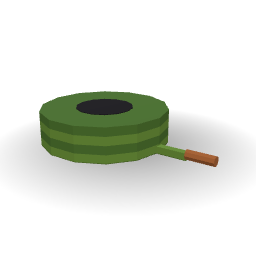
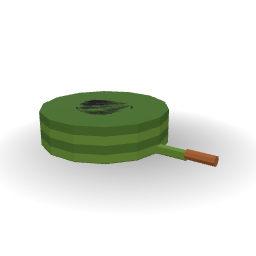
Hand tools batch 2: fix first review findings (wheel and foot contact, sprinkler fitting, docs and counts)

diff --git a/art/scripts/tools_more.py b/art/scripts/tools_more.py
@@ -4,8 +4,9 @@ extension cord reel and hand truck. Flat faceted models.
 Run in Blender:  import runpy; runpy.run_path(r"<repo>/art/scripts/tools_more.py", run_name="__main__")
 Optional global TOOL_LIST (piece names). Exports Assets/Art/Global/Tools/GT_<Name>_01.fbx.
 
-Origin on the floor at the middle of the footprint. Small hand tools (shears, poker) lie on the floor along X, working end at +X; the rest stand as they are used.
-Front -Y. Sizes and details are in docs/assets/briefs/hand-tools-2.md.
+Origin on the floor at the middle of the footprint. Small hand tools (shears, poker) lie on the floor along X, working end at +X; the rest stand as they are used (the hand truck's toe plate and the
+sprinkler's bar face +X, the working side).
+Front -Y for the rest. Sizes and details are in docs/assets/briefs/hand-tools-2.md.
 """
 
 import importlib
@@ -44,7 +45,7 @@ def piece(name):
 
 @piece("Plunger")
 def plunger():
-    """A sink plunger 0.5 m tall: black rubber cup 0.15 m across, wooden handle, a small knob on top."""
+    """A sink plunger 0.55 m tall: black rubber cup 0.15 m across, wooden handle, a small knob on top."""
     p = Prop("GT_Plunger_01")
     p.cyl("rubber", (0, 0, 0.04), 0.075, 0.08, n=10, top_radius=0.03)                # the cup, wide end on the floor
     p.cyl("wood_light", (0, 0, 0.3), 0.013, 0.46, n=8)                               # handle, from inside the cup up
@@ -54,13 +55,13 @@ def plunger():
 
 @piece("RopeCoil")
 def rope_coil():
-    """A coil of 12 mm rope, 0.3 m across and 0.09 m high: three layers around an open middle, one end laid out along the floor."""
+    """A coil of thick (about 25 mm) rope, 0.3 m across and 0.09 m high: three layers around an open middle, one end laid out along the floor."""
     p = Prop("GT_RopeCoil_01")
     p.ox = -0.06
     p.cyl("tan", (0, 0, 0.015), 0.15, 0.03, n=12)
     p.cyl("hay", (0, 0, 0.045), 0.15, 0.03, n=12)
     p.cyl("tan", (0, 0, 0.075), 0.15, 0.03, n=12)
-    p.cyl("dark_brown", (0, 0, 0.046), 0.07, 0.092, n=12)                            # the open middle, a dark core a little taller than the coil
+    p.cyl("dark_brown", (0, 0, 0.045), 0.07, 0.09, n=12)                             # the open middle, a dark core as tall as the coil
     p.box("tan", (0.2, 0.0, 0.01), (0.14, 0.02, 0.02))                               # the free end, along the floor from the coil's side
     return p
 
@@ -72,7 +73,7 @@ def sawhorse():
     p.box("wood_light", (0, 0, 0.555), (0.8, 0.09, 0.09))                           # top beam
     for sx in (-1, 1):
         for sy in (-1, 1):
-            rod(p, "wood_dark", (sx * 0.32, sy * 0.03, 0.52), (sx * 0.34, sy * 0.19, 0.01), w=0.045, h=0.045)
+            rod(p, "wood_dark", (sx * 0.32, sy * 0.03, 0.52), (sx * 0.34, sy * 0.19, 0.0078), w=0.045, h=0.045)
     for sx in (-1, 1):
         p.box("wood_dark", (sx * 0.33, 0, 0.3), (0.03, 0.2, 0.04))                  # a brace across each pair of legs
     return p
@@ -80,12 +81,12 @@ def sawhorse():
 
 @piece("PaintCan")
 def paint_can():
-    """A one gallon paint can (0.16 m across, 0.17 m high): label, rim, lid, wire bail and a drip of yellow paint down the side."""
+    """A one gallon paint can (0.16 m across, 0.17 m high): label, rim, wire bail, paint at the open top and a drip of yellow paint down the side."""
     p = Prop("GT_PaintCan_01")
     p.cyl("metal_galv", (0, 0, 0.085), 0.08, 0.17, n=12)
     p.cyl("label_red", (0, 0, 0.09), 0.0808, 0.07, n=12)                            # the paper label, just proud of the can
     p.cyl("metal_galv", (0, 0, 0.172), 0.084, 0.012, n=12)                          # the rim
-    p.cyl("paint_yellow", (0, 0, 0.176), 0.07, 0.006, n=12)                         # paint at the top where the lid is off
+    p.cyl("paint_yellow", (0, 0, 0.174), 0.07, 0.006, n=12)                         # paint at the top where the lid is off
     p.box("paint_yellow", (0.0, -0.0815, 0.15), (0.03, 0.006, 0.05))                 # a drip on the front
     rod(p, "metal_dark", (-0.08, 0, 0.17), (0.0, 0, 0.23), w=0.006)                  # the wire bail
     rod(p, "metal_dark", (0.0, 0, 0.23), (0.08, 0, 0.17), w=0.006)
@@ -127,7 +128,7 @@ def hose_coil():
     p.ox = -0.1
     for k in range(4):
         p.cyl("corn_green" if k % 2 == 0 else "leaf_dark", (0, 0, 0.015 + k * 0.03), 0.225, 0.03, n=14)
-    p.cyl("shadow", (0, 0, 0.061), 0.1, 0.122, n=14)                                         # the open middle
+    p.cyl("shadow", (0, 0, 0.06), 0.1, 0.12, n=14)                                         # the open middle
     p.box("corn_green", (0.27, 0.0, 0.0125), (0.12, 0.025, 0.025))                           # the tail, along the floor from the coil's side
     p.cyl("copper", (0.375, 0, 0.0175), 0.0175, 0.1, n=8, axis="x")                          # the brass nozzle
     return p
@@ -135,7 +136,7 @@ def hose_coil():
 
 @piece("Sprinkler")
 def sprinkler():
-    """An oscillating lawn sprinkler 0.36 m long: a steel spray bar with a row of holes on two yellow skids, a brass hose fitting at one end."""
+    """An oscillating lawn sprinkler 0.39 m long, fitting included: a steel spray bar with a row of holes on two yellow skids, a brass hose fitting at one end."""
     p = Prop("GT_Sprinkler_01")
     p.ox = 0.0225
     for s in (-1, 1):
@@ -143,7 +144,7 @@ def sprinkler():
     p.box("metal_galv", (0, 0, 0.04), (0.34, 0.07, 0.05))                                  # the spray bar
     for k in range(8):
         p.cyl("black", (-0.14 + k * 0.04, 0, 0.066), 0.005, 0.006, n=6)                      # the spray holes
-    p.cyl("copper", (-0.195, 0, 0.04), 0.017, 0.04, n=8, axis="x")                           # hose fitting
+    p.cyl("copper", (-0.19, 0, 0.04), 0.017, 0.04, n=8, axis="x")                           # hose fitting
     return p
 
 
@@ -167,7 +168,7 @@ def hand_truck():
     p.ox = -0.06
     for s in (-1, 1):
         p.box("truck_blue", (0, s * 0.17, 0.55), (0.025, 0.025, 1.1))                       # the two rails
-        p.cyl("rubber", (0, s * 0.2, 0.1), 0.1, 0.035, n=10, axis="y")                       # the wheels
+        p.cyl("rubber", (0, s * 0.2, 0.1), 0.1, 0.035, n=12, axis="y")                       # the wheels
     for z in (0.35, 0.65, 0.95):
         p.box("truck_blue", (0, 0, z), (0.02, 0.34, 0.02))                                   # cross bars
     p.box("truck_blue", (0, 0, 1.1), (0.04, 0.36, 0.03))                                     # the handle

diff --git a/art/README.md b/art/README.md
@@ -51,7 +51,7 @@ Always pass `run_name="__main__"`: most scripts build only under `if __name__ ==
 | `scripts/insect_legs.py` | Where the ladybug, beetle and firefly are put together and where their legs join them (plain Python, no Blender: `tests/test_insect_legs.py` checks it) |
 | `scripts/insects.py` | Twelve insects and a spider in resting poses, real size (a ladybug is 8 mm; modelled in millimetres and scaled when finished): ladybug, beetle, firefly (a `glow_amber` tail), honeybee, two butterflies (monarch, blue: one function, two fill colours), moth, dragonfly, ant, grasshopper, caterpillar, spider. The FBX is a resting pose (not rigged); wings are thin outline-and-fill prisms (`wing()`). `scripts/insect_anim.py` rigs each one from the pieces `moving()` marks (wings, legs, antennae, a grasshopper's hind legs, a caterpillar's segments) and keys Idle plus Fly, Walk, Hop or (ladybug) Open, the wing covers lifting over the hindwings; the site's GLBs carry those clips (the FBX export does not bake animation) 330 to 920 triangles |
 | `scripts/hand_tools.py` | **Hand and garden tools at real size** (batch 1 of the game's tool list, `docs/assets/briefs/hand-tools.md`): claw hammer, sledgehammer, axe, hand saw, wrench, screwdriver, pliers, hoe, spade and a watering can, `GT_` prefix, 44-156 triangles each. Long tools lie on the floor along X, working end at +X |
-| `scripts/tools_more.py` | **Household, garden and workshop tools, batch 2** (`docs/assets/briefs/hand-tools-2.md`): plunger, rope coil, sawhorse, paint can, pruning shears, fire poker, hose coil, sprinkler, extension cord reel, hand truck; `GT_` prefix, 76-300 triangles each |
+| `scripts/tools_more.py` | **Household, garden and workshop tools, batch 2** (`docs/assets/briefs/hand-tools-2.md`): plunger, rope coil, sawhorse, paint can, pruning shears, fire poker, hose coil, sprinkler, extension cord reel, hand truck; `GT_` prefix, 80-300 triangles each |
 | `scripts/sports.py` | Sports gear at real size: nine balls (basketball, soccer, baseball, tennis, American football, volleyball, golf, bowling, hockey puck), the nets and goals (basketball hoop, soccer and hockey goals, tennis and volleyball nets: nets are coarse grids of three-sided strands, `goal_net()`), and equipment (wood and metal bats, glove, home plate, base, tennis racket, hockey stick, golf club, football helmet, skateboard, dumbbell, training cone, frisbee). `GS_` prefix |
 | `scripts/office.py` | Office furniture and equipment, `GO_` prefix: desks (wood and steel with a drawer pedestal, a corner desk, a conference table), a chair, a filing cabinet, a whiteboard on a stand, a **cubicle kit on a 1.5 m module** (low, high and glass-topped panels, a corner worksurface, an overhead bin with a flap, and an assembled pod), a copier (three trays and a lid that move), a desktop printer, a water cooler (door), a shredder (bin drawer), a wastebasket, a monitor with keyboard, a desk phone. Drawers, trays, doors and lids are parts in `data/interactions.json` |
 | `scripts/contents.py` | Things that go inside things: 68 foods, drinks, groceries, pet treats and clothes (all real size, origin on the base), and a **Rotten** version of every fresh food for abandoned houses and the trailer park; the produce has the apple in red, green and golden (one dimpled shape, three palette colours), a banana bunch (five fingers on a crown), lemon, pear, two grapes and a strawberry; `EXPORT = False` builds them in the scene without writing files |

diff --git a/docs/assets/briefs/hand-tools-2.md b/docs/assets/briefs/hand-tools-2.md
@@ -5,20 +5,20 @@ Continues `hand-tools.md` (batch 1). Ten more common household, garden and works
 | Model | Real size | What it shows |
 |---|---|---|
 | Plunger (`GT_Plunger_01`) | 0.55 m tall, cup 0.15 m | black rubber cup, wooden handle with a knob |
-| Rope coil (`GT_RopeCoil_01`) | 0.3 m across, 0.09 m high | three layers round an open middle, the free end along the floor |
+| Rope coil (`GT_RopeCoil_01`) | 0.3 m across, 0.09 m high | three layers round a dark core, the free end along the floor |
 | Sawhorse (`GT_Sawhorse_01`) | 0.8 x 0.42 x 0.6 m | top beam, four splayed legs, a brace across each pair |
-| Paint can (`GT_PaintCan_01`) | 0.17 m, one gallon | label, rim, open top with yellow paint, drip, wire bail |
+| Paint can (`GT_PaintCan_01`) | 0.17 m, one gallon | label, rim, open top with yellow paint below the rim, drip, wire bail |
 | Pruning shears (`GT_PruningShears_01`) | 0.2 m | red grips, pivot bolt, a cutting blade and a hook blade |
 | Fire poker (`GT_FirePoker_01`) | 0.72 m | iron shaft, square loop handle, bent point |
-| Hose, coiled (`GT_HoseCoil_01`) | 0.45 m across, 0.12 m high | four layers round an open middle, tail and brass nozzle |
-| Lawn sprinkler (`GT_Sprinkler_01`) | 0.36 m | spray bar with eight holes on two skids, brass fitting |
+| Hose, coiled (`GT_HoseCoil_01`) | 0.45 m across, 0.12 m high | four layers round a dark core, tail and brass nozzle |
+| Lawn sprinkler (`GT_Sprinkler_01`) | 0.39 m with the fitting | spray bar with eight holes on two skids, brass fitting |
 | Extension cord reel (`GT_CordReel_01`) | 0.28 x 0.33 m | orange cord between two discs, frame with a carry handle |
 | Hand truck (`GT_HandTruck_01`) | 1.1 m tall | blue rails, cross bars, handle, toe plate, two wheels |
 
-76 to 300 triangles each, palette colours only (no new swatches).
+80 to 300 triangles each, palette colours only (no new swatches).
 
 ## Known limits
-Plain boxes, cylinders and six-sided bars (flat faceted style). The hose and rope are stacked rings, not a spiral. The plunger and poker are thin; the hand truck is upright with no tilt. No moving parts.
+Plain boxes, cylinders and six-sided bars (flat faceted style). The hose and rope are stacked rings, not a spiral, and their "open middle" is a flush dark core. The plunger and poker are thin; the hand truck is upright with no tilt and its toe plate faces +X. No moving parts.
 
 ## Still to do in the category
 Fireplace shovel and brush, toilet brush, iron, kitchen and bathroom scales, sewing machine, lawn mower, snow shovel and blower, fishing rods, car jack and stands, air compressor, shop vac, mallet, cordless drill, bench vise, angle and bench grinders, welder, table saw, chainsaw, work light, come-along, tarp, car battery, scythe, boot scraper, garden stakes, IV pole, creeper, shopping cart, pallet jack.

diff --git a/NOTES.md b/NOTES.md
@@ -151,5 +151,6 @@ Opus first review (before the PR): 15 findings, all real ones fixed in a second 
 Fable final review: 11 findings, fixed in a third commit: the hammer's face was detached by 1 cm and sank 1.4 mm, the axe edge floated 3 mm off the cheek, the hammer, axe and sledgehammer origins were shifted the wrong way (my earlier shifts for them were wrong; bounding boxes are now centred on x), the spade's D grip was open (a crosspiece now closes it), README line 14 still said 346, and brief claims that did not match the code (tapered saw, toothed pliers, watering can size, sledgehammer weight, now about 8 lb). Not changed: the hoe's blade lies flat in line with the handle (a design limit named in the brief).
 
 ## Hand tools, batch 2 (2026-10-25, branch `props-batch-2-tools`)
-Brief: `docs/assets/briefs/hand-tools-2.md`. Ten more tools (plunger, rope coil, sawhorse, paint can, pruning shears, fire poker, hose coil, sprinkler, extension cord reel, hand truck) from `art/scripts/tools_more.py` (group `tools_more`), 76 to 300 triangles each, no new palette colours.
-**Built and looked at:** all ten rebuilt with `tools/build_site_assets.py`; bounding boxes read from the build facts (all rest on z = 0 within 2 mm, centred on x) and the ten thumbnails viewed together in one sheet. **Not done:** `audit_props.py`, opening each model in the site viewer, rendering other angles than the thumbnails. Manifest rows added with `make_manifest.build_entry` for these ten ids only, as in batch 1.
+Brief: `docs/assets/briefs/hand-tools-2.md`. Ten more tools (plunger, rope coil, sawhorse, paint can, pruning shears, fire poker, hose coil, sprinkler, extension cord reel, hand truck) from `art/scripts/tools_more.py` (group `tools_more`), 80 to 300 triangles each, no new palette colours.
+**Built and looked at:** all ten rebuilt with `tools/build_site_assets.py`; bounding boxes read from the build facts (all rest on z = 0, centred on x) and the ten thumbnails viewed together in one sheet. **Not done:** `audit_props.py`, opening each model in the site viewer, rendering other angles than the thumbnails. Manifest rows added with `make_manifest.build_entry` for these ten ids only, as in batch 1.
+Opus first review (before the PR): 11 findings, all fixed in a second commit: the hand-truck wheels (12-sided now, a vertex sits at the bottom) and the sawhorse feet floated 2 to 4 mm, the sprinkler fitting was detached by 5 mm, the triangle range and sizes in the brief and docstrings were wrong (80 to 300; sprinkler 0.39 m; plunger 0.55 m), the rope and hose cores stood 2 mm proud of the coil, the paint disc poked 1 mm above the rim, and the README `tools` description was out of date. The hand truck's toe plate faces +X (documented, not rotated).

diff --git a/README.md b/README.md
@@ -38,7 +38,7 @@ Contents: [How a model is made](#how-a-model-is-made) · [Categories and tags](#
 
 ## Categories and tags
 
-Every model in the browser has one **type**, a three-level lowercase path, `category/group/kind`, for example `vehicles/road/sedan`, `furniture/seating/sofa`, `appliances/kitchen/fridge`. The top-level categories in the first slice are `vehicles`, `animals`, `people`, `furniture`, `appliances`, `decor`, `food`, `farm`, `building`, `nature`, `sports`, `fixtures`, `equipment`, `tools` (hand and garden tools) and `alien` (ship parts, hand tools and wreckage). It also has many **tags** (lowercase words): the setting (`modern`, `retro`, `classic`, `rural`, `urban`, `suburban`, `sci-fi`, `diner`), the condition (`new`, `damaged`, `rotten`, `abandoned`, `fresh`, `weathered`), colours (`red`, `blue`...) and anything that helps a search (`kitchen`, `emergency`, `livestock`...). Models that are the same shape in another skin, style or colour are listed as each other's **variants**. The table that holds all this is `tools/catalog.py`; the rules for it are tested (`tests/test_catalog.py`).
+Every model in the browser has one **type**, a three-level lowercase path, `category/group/kind`, for example `vehicles/road/sedan`, `furniture/seating/sofa`, `appliances/kitchen/fridge`. The top-level categories in the first slice are `vehicles`, `animals`, `people`, `furniture`, `appliances`, `decor`, `food`, `farm`, `building`, `nature`, `sports`, `fixtures`, `equipment`, `tools` (hand, garden, household and workshop tools) and `alien` (ship parts, hand tools and wreckage). It also has many **tags** (lowercase words): the setting (`modern`, `retro`, `classic`, `rural`, `urban`, `suburban`, `sci-fi`, `diner`), the condition (`new`, `damaged`, `rotten`, `abandoned`, `fresh`, `weathered`), colours (`red`, `blue`...) and anything that helps a search (`kitchen`, `emergency`, `livestock`...). Models that are the same shape in another skin, style or colour are listed as each other's **variants**. The table that holds all this is `tools/catalog.py`; the rules for it are tested (`tests/test_catalog.py`).
 
 ## The asset browser
 
